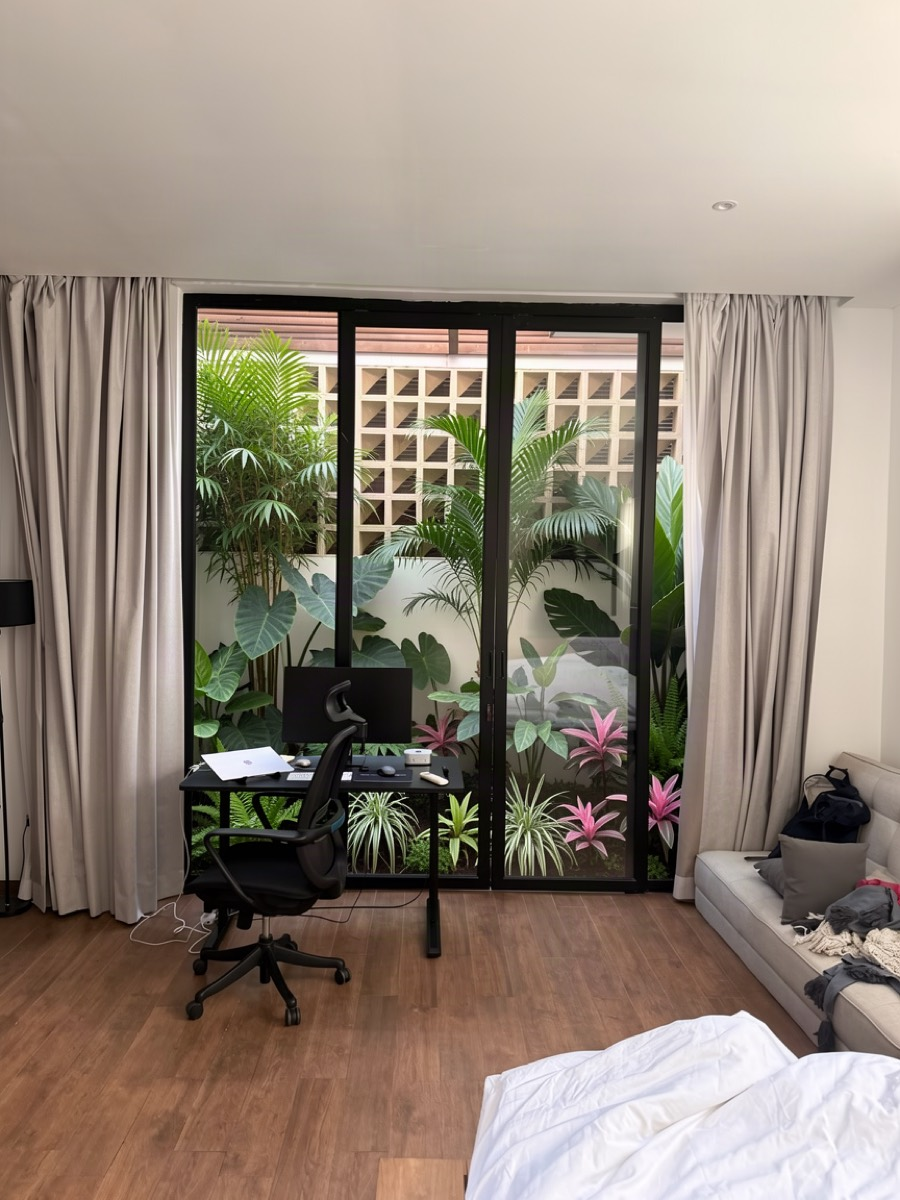
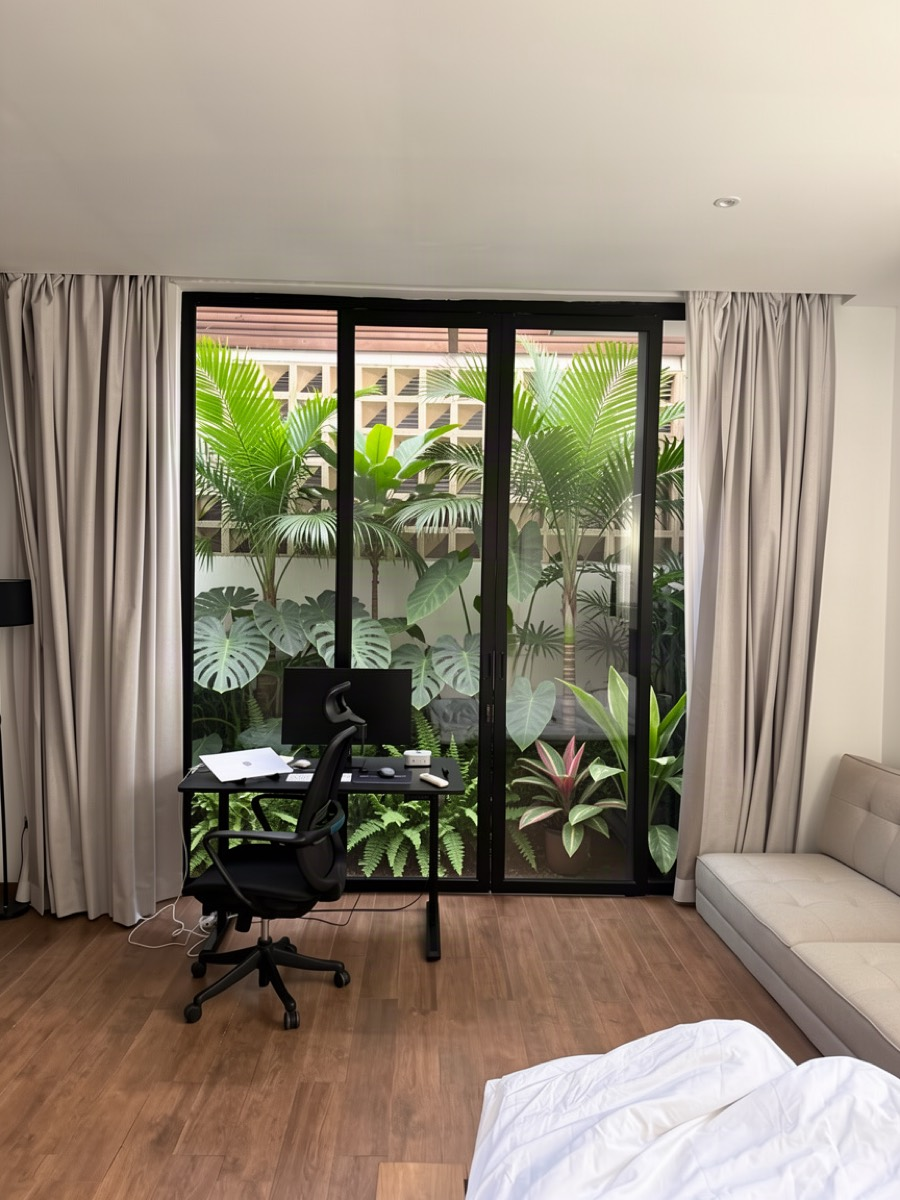
Planner pass: one wall map per zone, full-width stacked photos, matching mix across views

diff --git a/data.js b/data.js
@@ -49,9 +49,12 @@ window.GARDEN = {
   zones: [
     {
       id: 1, name: "Bedroom window alley", size: "5 m × 0.6–0.8 m",
+      wall: "Narrow 5 m service slot between the bedroom wall and the opposite boundary wall. Seen from the bed through the window, and from the door looking down the alley. Same planting in both photos.",
       seen: "Bedroom window above the bed",
       light: "Shade at ground, sun on tops", water: "Roofed overhang — drip only",
-      goal: "Fill the whole window with upright tropical height. Screen the heater and AC, keep them reachable.",
+      goal: "Fill the whole window with green, including the upper third. Slim mixed plants in a long 60–80 cm slot — not a short courtyard.",
+      plan: "One repeating mix the full 5 m: areca clumps at irregular spacing, red ti and Dieffenbachia mixed among the trunks at window height, pothos / snake plant / peace lily at the base. Leave 60 cm by the door as groundcover so the heater stays reachable. Nothing grows from the window or inside the room.",
+      mix: ["areca", "bambooPalm", "cordyline", "dieffenbachia", "peace", "snake", "pothos"],
       keep: "Existing areca clump at the far end.",
       photos: [
         { before: "zone1-1-bedroom-view.jpg", after: "after-zone1-1-bedroom-view.jpg", label: "From the bed" },
@@ -74,9 +77,12 @@ window.GARDEN = {
     },
     {
       id: 2, name: "Bedroom indoor balcony", size: "3.5–4 m × 1 m",
+      wall: "Indoor light well behind the bedroom glass, from the desk panel to the shower. Same bed in both photos. Plants only behind the glass.",
       seen: "Bedroom glass wall and the shower",
       light: "Bright filtered, no direct sun", water: "Transparent roof — no rain, humid from shower",
-      goal: "Lush mixed jungle behind the glass only. Hide the white wall with plants, not a green wall covering. Pink mixed along the whole length, not one block.",
+      goal: "Even mid and tall along all three glass panels so the white wall almost disappears behind plant volume. Pink mixed along the whole length. Nothing on the bedroom floor.",
+      plan: "Repeating mix behind the glass only: Alocasia, bamboo palm, existing areca and Chamaedorea at irregular heights; Dieffenbachia mixed through; Stromanthe and pink Aglaonema in small groups the full length with ferns, spider plants and pothos. Hide the wall with foliage, not a green covering.",
+      mix: ["alocasia", "bambooPalm", "dieffenbachia", "stromanthe", "aglaonema", "peace", "boston", "spider", "pothos"],
       keep: "Existing areca, two Chamaedorea palms, snake plants.",
       photos: [
         { before: "zone2-1-bedroom-glass-wall.jpg", after: "after-zone2-1-bedroom-glass-wall.jpg", label: "From the bedroom" },
@@ -101,9 +107,12 @@ window.GARDEN = {
     },
     {
       id: 3, name: "Rear alley", size: "10 m × 0.8–1 m",
+      wall: "10 m rear service strip behind the living-room glass, toilet window and pool-end door. Same mix in every photo of this wall.",
       seen: "Living room glass, toilet window, pool end",
       light: "Part sun on tops, shade at base", water: "Open sky — rain in wet season",
-      goal: "A jungle wall from the living room. Big leaves at the frosted toilet window. Keep the lipstick palm's red stems visible.",
+      goal: "An impressive jungle from the living room. Hide the white wall with real plant volume, not a painted green wall. Neighbour partly screened upstairs.",
+      plan: "One mix the full 10 m: keep the lipstick palm; add areca off-centre; Alocasia, Dieffenbachia, red ginger and pink Aglaonema interplanted; ferns and pothos covering soil. Big leaves near the frosted toilet window.",
+      mix: ["areca", "alocasia", "dieffenbachia", "alpinia", "aglaonema", "boston", "pothos", "spider"],
       keep: "Lipstick palm, existing areca and Chamaedorea.",
       photos: [
         { before: "zone3-4-living-room-glass.jpg", after: "after-zone3-4-living-room-glass.jpg", label: "From the living room" },
@@ -130,9 +139,12 @@ window.GARDEN = {
     },
     {
       id: 4, name: "Pool garden", size: "L-bed ~7 m + 7 m × 1.5 m",
+      wall: "L-shaped bed against the two pool boundary walls. Wide view, right wall and back wall are the same planting, not three different schemes.",
       seen: "Pool, loungers, the house",
       light: "Full sun much of the day", water: "Open sky — rain in wet season",
-      goal: "Rebuild the missing middle layer so no white wall shows. Neat flowering edge that does not dump leaves in the pool.",
+      goal: "Blended tropical edge. Green-dominant low layer. Flowers mixed through, not a purple stripe then a red block then a green block.",
+      plan: "Keep the palms. Mid layer: red button ginger, parrot heliconia, croton and ixora INTERPLANTED the whole L. Low: mostly mondo grass, with heather and pentas as specks woven through — not a solid flower band.",
+      mix: ["costus", "alpinia", "parrot", "croton", "ixora", "heather", "pentas", "mondo"],
       keep: "All existing areca clumps and Christmas palms.",
       photos: [
         { before: "zone4-1-pool-wide.jpg", after: "after-zone4-1-pool-wide.jpg", label: "Wide pool view" },
@@ -157,9 +169,12 @@ window.GARDEN = {
     },
     {
       id: 5, name: "Dining terrace", size: "10 m × 3–4 m",
+      wall: "Long left wall of even grey troughs, plus a quieter back wall with art/mirror. One repeating mix in the troughs.",
       seen: "Dining table and the path past it",
       light: "Bright, dappled through branches", water: "Glass roof — no rain",
-      goal: "A longer sitting terrace. Plants packed against the left wall. Art and a mirror on the back wall — no gym ladder.",
+      goal: "Even troughs packed against the left wall, similar mature height the whole length. Art and a mirror on the back wall. No gym ladder.",
+      plan: "One row of matching troughs: bird of paradise, Monstera, rubber plant, pothos and spider plants repeating. Back wall is furniture/art, not a second planting scheme.",
+      mix: ["bop", "monstera", "pothos", "spider", "heartleaf"],
       keep: "Existing bird of paradise, rubber plant, Monstera and pothos in the troughs — bulk them up.",
       photos: [
         { before: "zone5-1-dining-terrace.jpg", after: "after-zone5-1-dining-terrace.jpg", label: "Whole terrace" }
@@ -179,9 +194,12 @@ window.GARDEN = {
     },
     {
       id: 6, name: "Entrance walkway", size: "Bed ~10 m × 0.5 m",
+      wall: "One 10 m raised bed along the right boundary wall. Both walkway photos show the same continuous mix and a consistent high line.",
       seen: "Everyone arriving",
       light: "Bright, some sun patches", water: "Glass roof — drip. Last 1–2 m open",
-      goal: "Walk into a tropical tunnel. Path stays 1.1–1.2 m clear. Nothing below 2.2 m over the path.",
+      goal: "One mixed tropical tunnel. Consistent low spill and an even-ish high line above 2.2 m. Path stays clear.",
+      plan: "Repeat the whole length: heliconia + areca at irregular spacing, tops forming a high line; red ti mixed through; ferns, spider plants and plectranthus spilling the curb. Pothos from beam boxes.",
+      mix: ["heliconia", "areca", "cordyline", "boston", "spider", "plectranthus", "pothos", "heartleaf"],
       keep: "Existing heliconia (it will regrow) and areca clumps at both ends.",
       photos: [
         { before: "zone6-1-walkway-near-end.jpg", after: "after-zone6-1-walkway-near-end.jpg", label: "Near the house" },
@@ -205,9 +223,12 @@ window.GARDEN = {
     },
     {
       id: 7, name: "Street frontage", size: "Corner 1 × 1 m + 2 grey troughs",
+      wall: "Three pieces of one entrance: modest bougainvillea left of the gate, simple grey troughs, and the 1×1 m palm bed. Same restrained language in all three photos.",
       seen: "The street and arriving guests",
       light: "Full sun, reflected heat, dust", water: "Open sky — rain in wet season",
-      goal: "Restrained first impression. Flowers on the left. Sign stays clear. Palm corner a bit lusher in the middle — not a flower explosion.",
+      goal: "Restrained first impression. Flowers on the left. Sign stays clear. Palm bed lusher only in the inner metre — not a flower carpet on the floor.",
+      plan: "Bougainvillea left of the gate, not over the lettering. Troughs: parrot heliconia, a little ixora, plumbago. Palm corner: crotons and ti in the middle of the 1×1 m, light groundcover, not a flower explosion.",
+      mix: ["bougainvillea", "croton", "cordyline", "heather", "pentas", "parrot", "plumbago"],
       keep: "Christmas palm in the corner. Wooden gate and Villa Raava lettering.",
       photos: [
         { before: "zone7-2-gate-and-sign.jpg", after: "after-zone7-2-gate-and-sign.jpg", label: "Gate and sign" },
@@ -231,9 +252,12 @@ window.GARDEN = {
     },
     {
       id: 8, name: "Balcony planter", size: "Long planter ~0.8–1 m wide",
+      wall: "One balcony-width planter. Chair view, close-up and street facade must show the same mix and the same height — not a green bomb on the facade.",
       seen: "Balcony chair, the street, neighbours opposite",
       light: "Full sun, strong afternoon", water: "Roofed — only rain blown in",
-      goal: "A real privacy fence of bamboo palms between the arecas. One lipstick palm as an accent. Simple flowers at the soil. Do not overdo it.",
+      goal: "Accurate privacy fence, similar height left to right, a bit lower than a roof bomb. Simple flowers at the soil. Street view stays within the planter width.",
+      plan: "Keep arecas. Bamboo palms as a fence in the gaps, even-ish height. One lipstick palm accent. Heather and pentas covering soil. Light Lee Kuan Yew trail from the street, not a hedge over the wall.",
+      mix: ["bambooPalm", "lipstick", "heather", "pentas"],
       keep: "Existing areca clumps.",
       photos: [
         { before: "zone8-1-balcony-wide.jpg", after: "after-zone8-1-balcony-wide.jpg", label: "From the chair" },
@@ -254,9 +278,12 @@ window.GARDEN = {
     },
     {
       id: 9, name: "Upstairs bathroom", size: "Corner pot + shower planter",
+      wall: "Two related pieces of one bathroom: the corner pot, and the open-air shower planter. Plants stay inside each container.",
       seen: "Bathroom and open-air shower",
       light: "Bright top light", water: "Roofed — never rained on, shower splash",
-      goal: "Corner: tall airy bamboo palm. Shower: three layers inside the planter only — upright banana-like leaves, denser mid foliage, low ferns. Shower floor stays clear.",
+      goal: "Corner: tall airy bamboo palm. Shower: three layers inside the planter only. Shower floor stays clear.",
+      plan: "White pot: bamboo palm. Shower box: slim bamboo palm plus upright heliconia / bird-of-paradise paddle leaves; red ti, Dieffenbachia and bird's nest ferns; Boston ferns and peace lilies covering soil. No wide elephant ear or Monstera taking the shower.",
+      mix: ["bambooPalm", "heliconia", "bop", "cordyline", "dieffenbachia", "nest", "boston", "peace"],
       keep: "Move the thin fan palm out of the corner pot.",
       photos: [
         { before: "zone9-1-bathroom-corner-pot.jpg", after: "after-zone9-1-bathroom-corner-pot.jpg", label: "Corner pot" },

diff --git a/app.js b/app.js
@@ -17,21 +17,18 @@
   });
   const shopList = Object.values(shopping).sort((a, b) => plants[b.plant].price * b.qty - plants[a.plant].price * a.qty);
 
-  const el = (html) => {
-    const t = document.createElement("template");
-    t.innerHTML = html.trim();
-    return t.content.firstElementChild;
-  };
-
   const compare = (before, after, label) => `
-    <div class="compare" data-compare>
-      <img src="assets/before/${before}" alt="Before ${label}">
-      <img class="after" src="assets/after/${after}" alt="After ${label}">
-      <div class="tag left">Now</div>
-      <div class="tag right">After</div>
-      <div class="handle"></div>
-      <input type="range" min="0" max="100" value="50" aria-label="Before after slider">
-    </div>`;
+    <figure class="shot">
+      <div class="compare" data-compare>
+        <img src="assets/before/${before}" alt="Before ${label}">
+        <img class="after" src="assets/after/${after}" alt="After ${label}">
+        <div class="tag left">Now</div>
+        <div class="tag right">After</div>
+        <div class="handle"></div>
+        <input type="range" min="0" max="100" value="50" aria-label="Before after slider">
+      </div>
+      <figcaption>${label} · drag to compare · full frame</figcaption>
+    </figure>`;
 
   const bindCompares = (root) => {
     root.querySelectorAll("[data-compare]").forEach(box => {
@@ -59,14 +56,20 @@
     </div>`;
   }).join("");
 
+  const mixChips = (z) => (z.mix || []).map(id => {
+    const p = plants[id];
+    if (!p) return "";
+    return `<span class="mix-chip"><img src="assets/plants/${p.photo}" alt="">${p.name}</span>`;
+  }).join("");
+
   const zoneCard = (z) => `
     <article class="card" data-open-zone="${z.id}">
       <div class="zone-hero"><img src="assets/after/${z.photos[0].after}" alt="${z.name}"></div>
       <div class="body">
         <h3>${z.id}. ${z.name}</h3>
-        <div class="meta">${z.size} · ${z.light}</div>
+        <div class="meta">${z.wall || z.size} · ${z.light}</div>
         <div class="chip-row">
-          <span class="chip">${z.photos.length} views</span>
+          <span class="chip">${z.photos.length} views of this wall</span>
           <span class="chip">${z.buy.reduce((s,i)=>s+i.qty,0)} plants</span>
           <span class="chip">${fmt(zoneCost(z))}</span>
         </div>
@@ -75,12 +78,12 @@
     </article>`;
 
   const zonePage = (z) => {
-    const first = z.photos[0];
+    const hero = z.photos[0];
+    const rest = z.photos.slice(1);
     return `<a class="back" href="#zones">← All zones</a>
-      <article class="card">
-        ${compare(first.before, first.after, first.label)}
-        <div class="photo-nav">${z.photos.map((p,i)=>`<button data-photo="${i}" class="${i===0?"active":""}">${p.label}</button>`).join("")}</div>
-        <div class="body">
+      <article class="zone-page">
+        <header class="zone-head">
+          <div class="kicker">Wall ${z.id} of 9</div>
           <h2>${z.id}. ${z.name}</h2>
           <p>${z.goal}</p>
           <div class="chip-row">
@@ -89,19 +92,36 @@
             <span class="chip">${z.water}</span>
             <span class="chip">Seen from: ${z.seen}</span>
           </div>
+        </header>
+
+        <section class="plan-card">
+          <div class="kicker">Planting map for this wall</div>
+          <p class="wall-line">${z.wall || z.size}</p>
+          <p>${z.plan || z.goal}</p>
           <dl class="layers">
             <dt>Tall</dt><dd>${z.layers.tall}</dd>
             <dt>Middle</dt><dd>${z.layers.mid}</dd>
             <dt>Low</dt><dd>${z.layers.low}</dd>
             <dt>Keep</dt><dd>${z.keep}</dd>
           </dl>
-          <h3>Buy for this zone · ${fmt(zoneCost(z))}</h3>
+          <div class="mix-row">${mixChips(z)}</div>
+        </section>
+
+        <section class="shots">
+          ${compare(hero.before, hero.after, hero.label)}
+          ${rest.map(p => compare(p.before, p.after, p.label)).join("")}
+        </section>
+
+        <section class="buy-card">
+          <h3>Order for this wall · ${fmt(zoneCost(z))}</h3>
+          <p class="small">Same mix in every photo of this zone. Confirm sizes at the nursery.</p>
           ${buyRows(z.buy)}
-        </div>
+        </section>
       </article>`;
   };
 
   const home = () => `
+    <p class="lede">Each zone is one wall. Open it for the planting map, then every photo of that wall at full width.</p>
     <div class="grid zone-grid">${G.zones.map(zoneCard).join("")}</div>`;
 
   const plantsPage = () => `
@@ -120,7 +140,7 @@
     <div class="totals">
       <div class="kicker">One shopping list</div>
       <h2>${fmt(totalCost)}</h2>
-      <p class="small">${plantCount} plants across 9 zones. Soil, compost, planters, bin enclosure, wall bars and labour not included.</p>
+      <p class="small">${plantCount} plants across 9 walls. Soil, compost, planters, bin enclosure and labour not included.</p>
     </div>
     <div class="note">${G.note}</div>
     <table>
@@ -130,7 +150,7 @@
           const p = plants[item.plant];
           return `<tr>
             <td><img src="assets/plants/${p.photo}" alt="" style="width:44px;height:44px;object-fit:cover;border-radius:8px"></td>
-            <td><b>${p.name}</b><div class="small">${p.latin}<br>Zones ${[...new Set(item.zones)].join(", ")}</div></td>
+            <td><b>${p.name}</b><div class="small">${p.latin}<br>Walls ${[...new Set(item.zones)].join(", ")}</div></td>
             <td>${item.qty}</td>
             <td>${fmt(p.price)}</td>
             <td class="price">${fmt(p.price * item.qty)}</td>
@@ -141,7 +161,7 @@
 
   const stats = document.getElementById("stats");
   stats.innerHTML = `
-    <div class="stat"><b>9</b><span>zones</span></div>
+    <div class="stat"><b>9</b><span>walls</span></div>
     <div class="stat"><b>${plantCount}</b><span>plants to buy</span></div>
     <div class="stat"><b>${fmt(totalCost)}</b><span>plants only</span></div>`;
 
@@ -165,16 +185,6 @@
       const z = G.zones.find(x => x.id === currentZone);
       app.innerHTML = zonePage(z);
       bindCompares(app);
-      app.querySelectorAll("[data-photo]").forEach(btn => {
-        btn.addEventListener("click", () => {
-          const p = z.photos[Number(btn.dataset.photo)];
-          const box = app.querySelector("[data-compare]");
-          box.querySelector("img").src = "assets/before/" + p.before;
-          box.querySelector(".after").src = "assets/after/" + p.after;
-          app.querySelectorAll("[data-photo]").forEach(b => b.classList.remove("active"));
-          btn.classList.add("active");
-        });
-      });
     } else {
       app.innerHTML = home();
       app.querySelectorAll("[data-open-zone]").forEach(card => {

diff --git a/styles.css b/styles.css
@@ -193,19 +193,36 @@ th { color: var(--muted); font-weight: 600; }
   padding: 10px 12px;
   font-size: 13px;
 }
-.zone-hero img { width: 100%; height: auto; max-height: 420px; object-fit: cover; object-position: center top; }
+.zone-hero img { width: 100%; height: auto; max-height: 280px; object-fit: cover; object-position: center top; }
 .back {
   display: inline-block;
   margin-bottom: 10px;
   color: var(--muted);
 }
-.photo-nav { display: flex; gap: 6px; overflow: auto; padding: 8px 0; }
-.photo-nav button {
+.zone-page { display: grid; gap: 16px; }
+.zone-head h2 { margin: 4px 0 8px; }
+.plan-card, .buy-card {
+  background: var(--card);
   border: 1px solid var(--line);
-  background: #203228;
-  color: var(--ink);
-  border-radius: 10px;
-  padding: 6px 10px;
-  white-space: nowrap;
+  border-radius: 20px;
+  padding: 16px;
 }
-.photo-nav button.active { background: var(--accent); color: #1a1404; }
+.wall-line { color: var(--accent); font-weight: 600; margin: 6px 0 8px; }
+.shots { display: grid; gap: 18px; }
+.shot { margin: 0; background: var(--card); border: 1px solid var(--line); border-radius: 20px; overflow: hidden; }
+.shot figcaption {
+  padding: 10px 14px 12px;
+  color: var(--muted);
+  font-size: 13px;
+}
+.mix-row { display: flex; flex-wrap: wrap; gap: 8px; margin-top: 12px; }
+.mix-chip {
+  display: inline-flex;
+  align-items: center;
+  gap: 6px;
+  background: #24362c;
+  border-radius: 999px;
+  padding: 4px 10px 4px 4px;
+  font-size: 12px;
+}
+.mix-chip img { width: 28px; height: 28px; object-fit: cover; border-radius: 50%; }

diff --git a/index.html b/index.html
@@ -11,7 +11,7 @@
     <header class="hero">
       <div class="kicker">Villa Raava · Bali</div>
       <h1>Garden planting plan</h1>
-      <p class="lede">Nine zones. Photoreal after-shots. Plants with photos, quantities and prices. Drag the slider on any photo: left is now, right is after.</p>
+      <p class="lede">Nine walls. One planting map per wall, then every photo of that wall at full width. Drag any photo: left is now, right is after.</p>
       <div class="stats" id="stats"></div>
     </header>
     <nav class="nav" id="nav"></nav>
